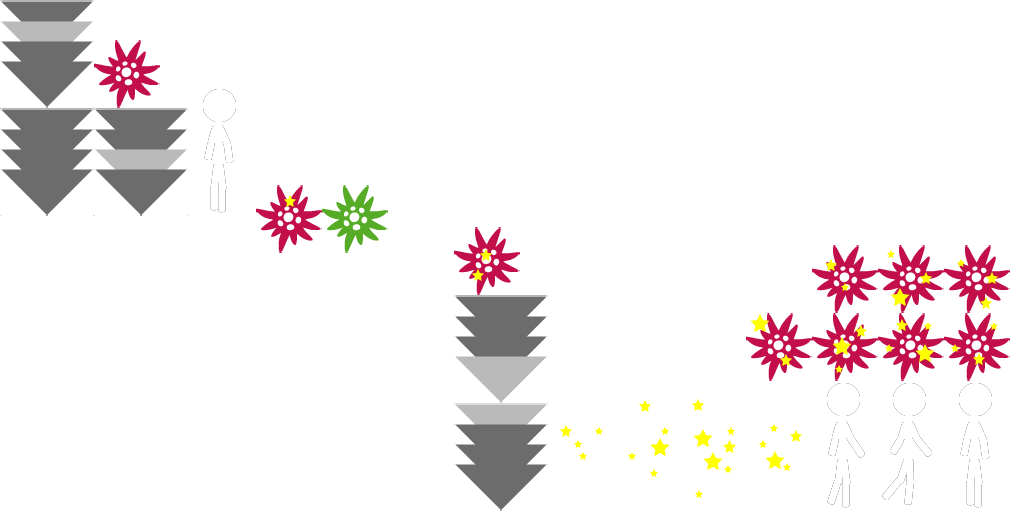
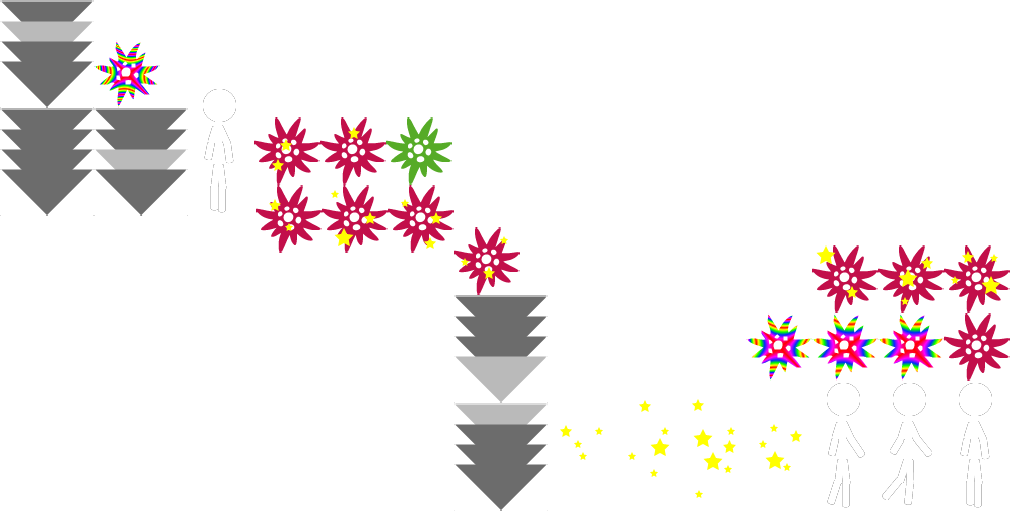
Colorswitch sprite added - few bux squashed

diff --git a/core/src/de/johannesbade/kletterhoelle/KletterHoelle.java b/core/src/de/johannesbade/kletterhoelle/KletterHoelle.java
@@ -55,7 +55,7 @@ public class KletterHoelle extends ApplicationAdapter implements InputProcessor,
 	{
 		Vector2 newPos = spawnPositions.get(MathUtils.random(spawnPositions.size-1));
 		
-		context.getStage().addActor(new Coin(context, newPos.x, newPos.y,Coin.CoinType.values()[MathUtils.random(0, Coin.CoinType.values().length-3)]));
+		context.getStage().addActor(new Coin(context, newPos.x, newPos.y,Coin.CoinType.values()[MathUtils.random(0, Coin.CoinType.values().length-2)]));
 	}
 	
 	public void addPlayer()
@@ -106,9 +106,11 @@ public class KletterHoelle extends ApplicationAdapter implements InputProcessor,
 		
 		spawnPositions = new Array<Vector2>();
 		spawnPositions.add(new Vector2(1680,160+950));
-		spawnPositions.add(new Vector2(1600,160+486));
-		spawnPositions.add(new Vector2(838,160+555));
+		spawnPositions.add(new Vector2(1600,160+490));
 		spawnPositions.add(new Vector2(590,160+490));
+		spawnPositions.add(new Vector2(900,160+490));
+		spawnPositions.add(new Vector2(838,160+555));
+		
 		
 		//Fenster der Kletterhalle
 		//context.getStage().addActor(new Fenster(context, 276, 766, 1950, 220));

diff --git a/core/src/de/johannesbade/kletterhoelle/Stickman.java b/core/src/de/johannesbade/kletterhoelle/Stickman.java
@@ -174,6 +174,12 @@ public class Stickman extends GameObject {
 				break;
 			
 			case COLOR_SWITCH_COIN:
+				if (!coin.isDestroyed())
+				{
+					System.out.println("COLORSWITCHER");
+					coin.markForRemoval();
+				}
+				
 				break;
 		}
 	}
@@ -294,6 +300,7 @@ public class Stickman extends GameObject {
 		if (vel.y > 0.1f && groundedPlattform == null) animation = animJump;
 
 		
+		if (capability == Capability.NO_CAPABILITY) sprite.setAlpha(1f);		
 		if (capability == Capability.KILL_ALL_CAPABILITY && getContext().getTimeElapsed() - killAllStartTime > Coin.KILL_ALL_DURATION)
 		{
 			setKillAllStartTime(-1);
@@ -442,6 +449,8 @@ public class Stickman extends GameObject {
 	}
 	
 	public void setAlive() {
+		killAllStartTime = -1;
+		capability = Capability.NO_CAPABILITY;
 		deadness = false;
 	}
 }

diff --git a/desktop/src/de/johannesbade/kletterhoelle/desktop/DesktopLauncher.java b/desktop/src/de/johannesbade/kletterhoelle/desktop/DesktopLauncher.java
@@ -10,7 +10,7 @@ public class DesktopLauncher {
 		LwjglApplicationConfiguration config = new LwjglApplicationConfiguration();
 		config.width = 1920;
 		config.height = 1080;
-		config.fullscreen = false;
+		config.fullscreen = true;
 		
 		new LwjglApplication(new KletterHoelle(), config);
 	}

diff --git a/core/src/de/johannesbade/kletterhoelle/Coin.java b/core/src/de/johannesbade/kletterhoelle/Coin.java
@@ -14,8 +14,8 @@ public class Coin extends GameObject {
 	public enum CoinType {
 		NORMAL_COIN,
 		KILL_ALL_COIN,
-		LOW_GRAVITY_COIN,
-		COLOR_SWITCH_COIN
+		COLOR_SWITCH_COIN,
+		LOW_GRAVITY_COIN;
 	}
 	
 	public static final long KILL_ALL_DURATION = 8;
